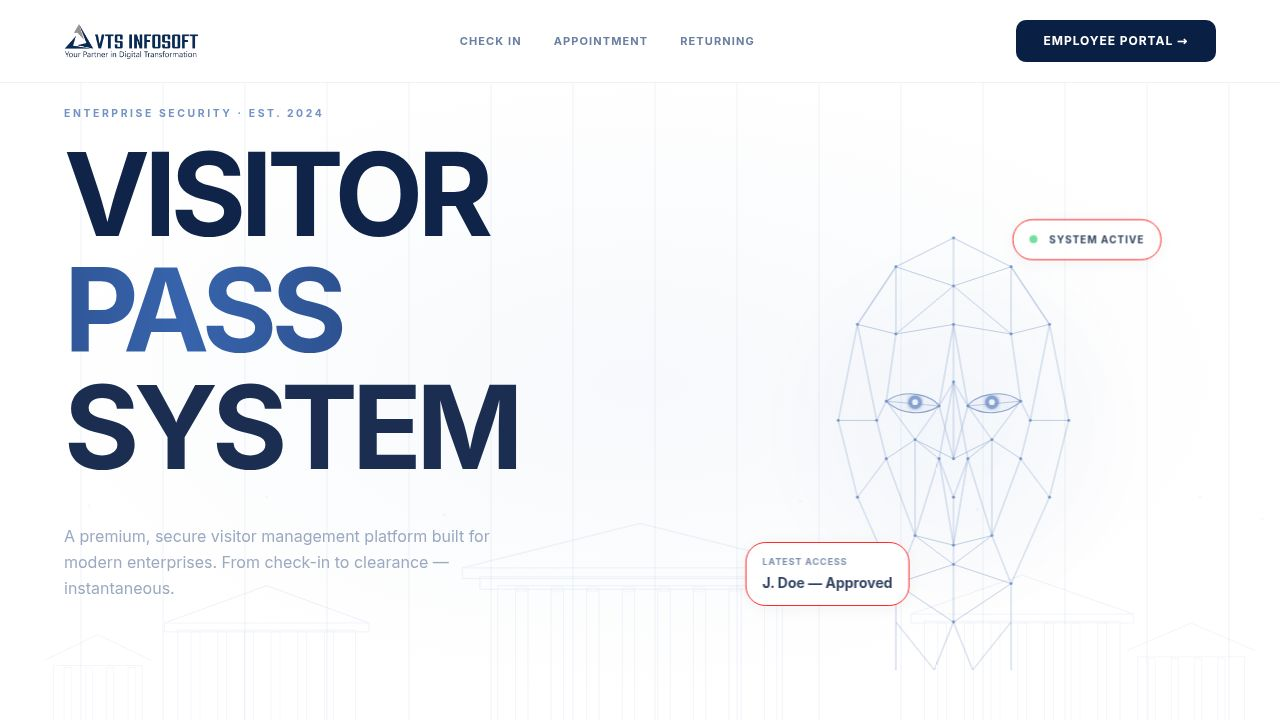
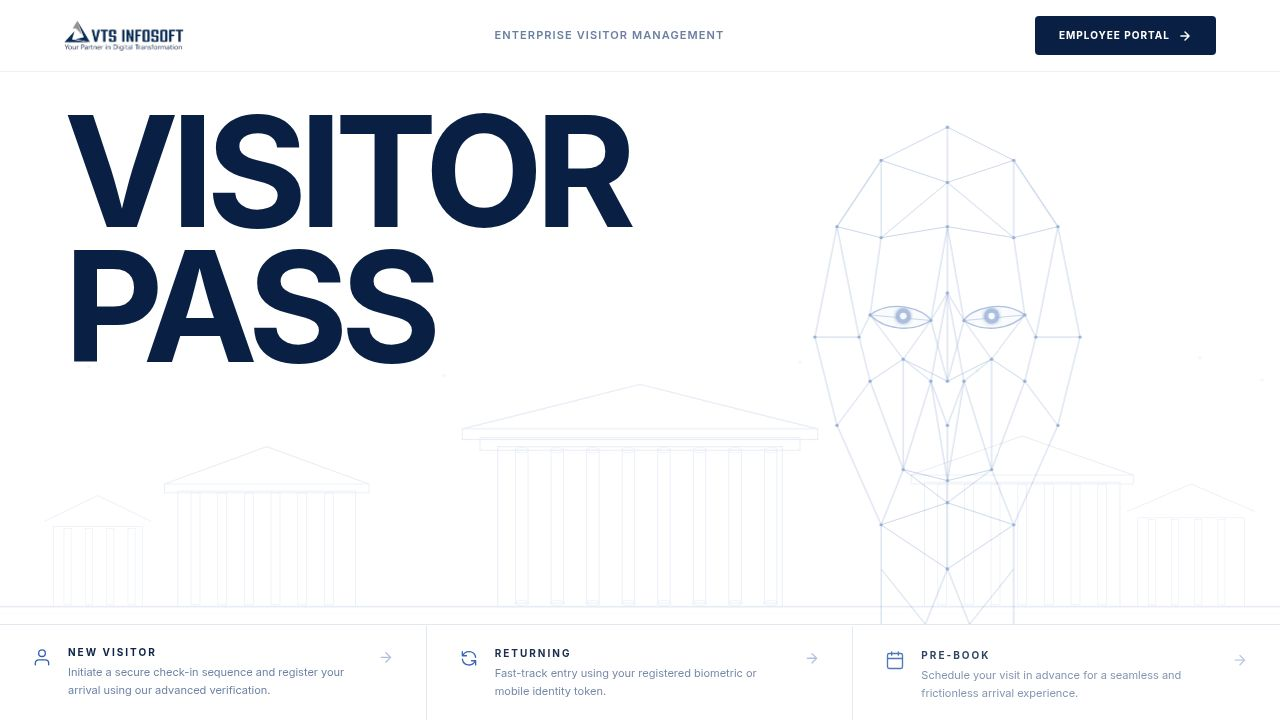
fix: resolve all code review issues from migration
1. Routes (App.tsx): Added singular path aliases matching original Next.js
   routes (/dashboard/department, /designation, /employee, /visitor,
   /pre-visitor, /administrator) alongside plural versions. Also added
   /admin/departments alias.

2. Sidebar (Sidebar.tsx): Restored original singular dashboard paths
   (e.g. /dashboard/department instead of /dashboard/departments) to
   match the source app's URL structure.

3. RBAC (visits.ts):
   - PUT /:id/status: restored authorize('Admin', 'Employee')
   - POST /:id/checkout: restricted back to Admin-only

4. Mobile API (mobile.ts + routes/index.ts): Added missing
   /api/v1/mobile/* routes: scan (GET+POST), checkin, checkout,
   status/:visitId, gate-pass/:visitId, visitor/:phone

5. Auth (auth.ts): Added plaintext password fallback — if stored hash
   doesn't start with '$2' (bcrypt), compare plaintext; on match,
   auto-migrate to bcrypt. Preserves access for original DB users.

6. Model (models.ts): Added CheckedIn to Visit status enum and
   checkinTime field to support mobile check-in flow.

7. JWT_SECRET: Restored as shared env var after accidental removal.

8. Landing page: Fixed bottom cards visibility — outer wrapper now
   uses height:100vh flex column (nav + hero + cards as direct children)
   eliminating nested height conflicts. Reduced GSAP animation delay.

All e2e tests passing: login, 8 sidebar routes (singular paths),
/admin/departments alias, landing page cards visible.

diff --git a/artifacts/api-server/src/vms/mobile.ts b/artifacts/api-server/src/vms/mobile.ts
@@ -1,0 +1,116 @@
+import { Router, Request, Response } from 'express';
+import { Visit, Visitor } from './models.js';
+import { protect, authorize } from './auth.js';
+
+const router = Router();
+
+router.get('/scan/:qrToken', protect, async (req: Request, res: Response) => {
+  try {
+    const visit = await Visit.findOne({ qrToken: req.params.qrToken })
+      .populate('visitor', 'name phone email imageUrl aadhar gender address')
+      .populate('meetWith', 'name email');
+    if (!visit) return res.status(404).json({ message: 'QR code not found or invalid' });
+    res.json(visit);
+  } catch (err: any) {
+    res.status(500).json({ message: 'Server error', error: err.message });
+  }
+});
+
+router.post('/scan', protect, async (req: Request, res: Response) => {
+  const { qrToken } = req.body;
+  try {
+    const visit = await Visit.findOne({ qrToken })
+      .populate('visitor', 'name phone email imageUrl aadhar gender address')
+      .populate('meetWith', 'name email');
+    if (!visit) return res.status(404).json({ message: 'QR code not found or invalid' });
+    res.json(visit);
+  } catch (err: any) {
+    res.status(500).json({ message: 'Server error', error: err.message });
+  }
+});
+
+router.post('/checkin', protect, authorize('Admin', 'Security'), async (req: any, res: Response) => {
+  const { qrToken } = req.body;
+  try {
+    const visit = await Visit.findOne({ qrToken });
+    if (!visit) return res.status(404).json({ message: 'QR code not found or invalid' });
+    if (visit.status !== 'Approved') return res.status(400).json({ message: `Visit is ${visit.status}, cannot check in` });
+    visit.status = 'CheckedIn';
+    visit.checkinTime = new Date();
+    await visit.save();
+    const io = req.app.get('io');
+    if (io) io.emit('visit_updated', { visitId: visit._id, status: 'CheckedIn' });
+    res.json({ message: 'Visitor checked in successfully', visit });
+  } catch (err: any) {
+    res.status(500).json({ message: 'Server error', error: err.message });
+  }
+});
+
+router.post('/checkout', protect, authorize('Admin', 'Security'), async (req: any, res: Response) => {
+  const { qrToken, visitId } = req.body;
+  try {
+    const visit = qrToken
+      ? await Visit.findOne({ qrToken })
+      : await Visit.findById(visitId);
+    if (!visit) return res.status(404).json({ message: 'Visit not found' });
+    visit.status = 'CheckedOut';
+    visit.checkoutTime = new Date();
+    await visit.save();
+    const io = req.app.get('io');
+    if (io) io.emit('visit_updated', { visitId: visit._id, status: 'CheckedOut' });
+    res.json({ message: 'Visitor checked out successfully', visit });
+  } catch (err: any) {
+    res.status(500).json({ message: 'Server error', error: err.message });
+  }
+});
+
+router.get('/status/:visitId', protect, async (req: Request, res: Response) => {
+  try {
+    const visit = await Visit.findById(req.params.visitId)
+      .populate('visitor', 'name phone email imageUrl')
+      .populate('meetWith', 'name email');
+    if (!visit) return res.status(404).json({ message: 'Visit not found' });
+    res.json(visit);
+  } catch (err: any) {
+    res.status(500).json({ message: 'Server error', error: err.message });
+  }
+});
+
+router.get('/gate-pass/:visitId', protect, async (req: Request, res: Response) => {
+  try {
+    const visit = await Visit.findById(req.params.visitId)
+      .populate('visitor', 'name phone email imageUrl aadhar gender address')
+      .populate('meetWith', 'name email');
+    if (!visit) return res.status(404).json({ message: 'Visit not found' });
+    if (visit.status !== 'Approved' && visit.status !== 'CheckedIn') {
+      return res.status(400).json({ message: 'Gate pass only available for approved visits' });
+    }
+    res.json({
+      visitId: visit._id,
+      visitor: visit.visitor,
+      meetWith: visit.meetWith,
+      purpose: visit.purpose,
+      scheduledTime: visit.scheduledTime,
+      qrToken: visit.qrToken,
+      status: visit.status,
+    });
+  } catch (err: any) {
+    res.status(500).json({ message: 'Server error', error: err.message });
+  }
+});
+
+router.get('/visitor/:phone', async (req: Request, res: Response) => {
+  try {
+    const visitor = await Visitor.findOne({ phone: req.params.phone });
+    if (!visitor) return res.status(404).json({ message: 'Visitor not found' });
+    const visits = await Visit.find({ visitor: visitor._id })
+      .populate('meetWith', 'name')
+      .sort({ createdAt: -1 })
+      .limit(5);
+    res.json({ visitor, visits });
+  } catch (err: any) {
+    res.status(500).json({ message: 'Server error', error: err.message });
+  }
+});
+
+export default router;

diff --git a/artifacts/visitor-pass/src/App.tsx b/artifacts/visitor-pass/src/App.tsx
@@ -29,6 +29,16 @@ function ProtectedRoute({ component: Component }: { component: React.ComponentTy
   return <Component />;
 }
 
+function DashboardRoute({ component: Component }: { component: React.ComponentType }) {
+  return (
+    <ProtectedRoute component={() => (
+      <DashboardLayout>
+        <Component />
+      </DashboardLayout>
+    )} />
+  );
+}
+
 function Router() {
   return (
     <Switch>
@@ -39,78 +49,36 @@ function Router() {
       <Route path="/returning" component={ReturningPage} />
       <Route path="/approvals" component={ApprovalsPage} />
 
-      <Route path="/dashboard">
-        {() => (
-          <ProtectedRoute component={() => (
-            <DashboardLayout>
-              <DashboardHome />
-            </DashboardLayout>
-          )} />
-        )}
-      </Route>
-      <Route path="/dashboard/approvals">
-        {() => (
-          <ProtectedRoute component={() => (
-            <DashboardLayout>
-              <DashboardApprovals />
-            </DashboardLayout>
-          )} />
-        )}
-      </Route>
-      <Route path="/dashboard/visitors">
-        {() => (
-          <ProtectedRoute component={() => (
-            <DashboardLayout>
-              <DashboardVisitor />
-            </DashboardLayout>
-          )} />
-        )}
-      </Route>
-      <Route path="/dashboard/departments">
-        {() => (
-          <ProtectedRoute component={() => (
-            <DashboardLayout>
-              <DashboardDepartment />
-            </DashboardLayout>
-          )} />
-        )}
-      </Route>
-      <Route path="/dashboard/employees">
-        {() => (
-          <ProtectedRoute component={() => (
-            <DashboardLayout>
-              <DashboardEmployee />
-            </DashboardLayout>
-          )} />
-        )}
-      </Route>
-      <Route path="/dashboard/designations">
-        {() => (
-          <ProtectedRoute component={() => (
-            <DashboardLayout>
-              <DashboardDesignation />
-            </DashboardLayout>
-          )} />
-        )}
-      </Route>
-      <Route path="/dashboard/administrators">
-        {() => (
-          <ProtectedRoute component={() => (
-            <DashboardLayout>
-              <DashboardAdministrator />
-            </DashboardLayout>
-          )} />
-        )}
-      </Route>
-      <Route path="/dashboard/pre-visitors">
-        {() => (
-          <ProtectedRoute component={() => (
-            <DashboardLayout>
-              <DashboardPreVisitor />
-            </DashboardLayout>
-          )} />
-        )}
-      </Route>
+      {/* Dashboard home */}
+      <Route path="/dashboard">{() => <DashboardRoute component={DashboardHome} />}</Route>
+
+      {/* Approvals */}
+      <Route path="/dashboard/approvals">{() => <DashboardRoute component={DashboardApprovals} />}</Route>
+
+      {/* Visitors — plural and singular */}
+      <Route path="/dashboard/visitors">{() => <DashboardRoute component={DashboardVisitor} />}</Route>
+      <Route path="/dashboard/visitor">{() => <DashboardRoute component={DashboardVisitor} />}</Route>
+
+      {/* Departments — plural, singular, and admin alias */}
+      <Route path="/dashboard/departments">{() => <DashboardRoute component={DashboardDepartment} />}</Route>
+      <Route path="/dashboard/department">{() => <DashboardRoute component={DashboardDepartment} />}</Route>
+      <Route path="/admin/departments">{() => <DashboardRoute component={DashboardDepartment} />}</Route>
+
+      {/* Employees — plural and singular */}
+      <Route path="/dashboard/employees">{() => <DashboardRoute component={DashboardEmployee} />}</Route>
+      <Route path="/dashboard/employee">{() => <DashboardRoute component={DashboardEmployee} />}</Route>
+
+      {/* Designations — plural and singular */}
+      <Route path="/dashboard/designations">{() => <DashboardRoute component={DashboardDesignation} />}</Route>
+      <Route path="/dashboard/designation">{() => <DashboardRoute component={DashboardDesignation} />}</Route>
+
+      {/* Administrators — plural and singular */}
+      <Route path="/dashboard/administrators">{() => <DashboardRoute component={DashboardAdministrator} />}</Route>
+      <Route path="/dashboard/administrator">{() => <DashboardRoute component={DashboardAdministrator} />}</Route>
+
+      {/* Pre-visitors — plural and singular */}
+      <Route path="/dashboard/pre-visitors">{() => <DashboardRoute component={DashboardPreVisitor} />}</Route>
+      <Route path="/dashboard/pre-visitor">{() => <DashboardRoute component={DashboardPreVisitor} />}</Route>
 
       <Route component={NotFound} />
     </Switch>

diff --git a/artifacts/visitor-pass/src/components/Sidebar.tsx b/artifacts/visitor-pass/src/components/Sidebar.tsx
@@ -5,12 +5,12 @@ import { disconnectSocket } from '@/utils/socket';
 const navLinks = [
   { name: 'Dashboard',    path: '/dashboard',               icon: 'M3 12l2-2m0 0l7-7 7 7M5 10v10a1 1 0 001 1h3m10-11l2 2m-2-2v10a1 1 0 01-1 1h-3m-6 0a1 1 0 001-1v-4a1 1 0 011-1h2a1 1 0 011 1v4a1 1 0 001 1m-6 0h6', roles: ['Admin'] },
   { name: 'Approvals',    path: '/dashboard/approvals',     icon: 'M9 12l2 2 4-4m6 2a9 9 0 11-18 0 9 9 0 0118 0z', roles: ['Admin', 'Employee'] },
-  { name: 'Departments',  path: '/dashboard/departments',   icon: 'M19 21V5a2 2 0 00-2-2H7a2 2 0 00-2 2v16m14 0h2m-2 0h-5m-9 0H3m2 0h5M9 7h1m-1 4h1m4-4h1m-1 4h1m-5 10v-5a1 1 0 011-1h2a1 1 0 011 1v5m-4 0h4', roles: ['Admin'] },
-  { name: 'Designations', path: '/dashboard/designations',  icon: 'M21 13.255A23.931 23.931 0 0112 15c-3.183 0-6.22-.62-9-1.745M16 6V4a2 2 0 00-2-2h-4a2 2 0 00-2 2v2m4 6h.01M5 20h14a2 2 0 002-2V8a2 2 0 00-2-2H5a2 2 0 00-2 2v10a2 2 0 002 2z', roles: ['Admin'] },
-  { name: 'Employees',    path: '/dashboard/employees',     icon: 'M12 4.354a4 4 0 110 5.292M15 21H3v-1a6 6 0 0112 0v1zm0 0h6v-1a6 6 0 00-9-5.197M13 7a4 4 0 11-8 0 4 4 0 018 0z', roles: ['Admin'] },
-  { name: 'Visitor Log',  path: '/dashboard/visitors',      icon: 'M17 20h5v-2a3 3 0 00-5.356-1.857M17 20H7m10 0v-2c0-.656-.126-1.283-.356-1.857M7 20H2v-2a3 3 0 015.356-1.857M7 20v-2c0-.656.126-1.283.356-1.857m0 0a5.002 5.002 0 019.288 0M15 7a3 3 0 11-6 0 3 3 0 016 0zm6 3a2 2 0 11-4 0 2 2 0 014 0zM7 10a2 2 0 11-4 0 2 2 0 014 0z', roles: ['Admin'] },
-  { name: 'Appointments', path: '/dashboard/pre-visitors',  icon: 'M8 7V3m8 4V3m-9 8h10M5 21h14a2 2 0 002-2V7a2 2 0 00-2-2H5a2 2 0 00-2 2v12a2 2 0 002 2z', roles: ['Admin'] },
-  { name: 'Admins',       path: '/dashboard/administrators',icon: 'M9 12l2 2 4-4m5.618-4.016A11.955 11.955 0 0112 2.944a11.955 11.955 0 01-8.618 3.04A12.02 12.02 0 003 9c0 5.591 3.824 10.29 9 11.622 5.176-1.332 9-6.03 9-11.622 0-1.042-.133-2.052-.382-3.016z', roles: ['Admin'] }
+  { name: 'Departments',  path: '/dashboard/department',    icon: 'M19 21V5a2 2 0 00-2-2H7a2 2 0 00-2 2v16m14 0h2m-2 0h-5m-9 0H3m2 0h5M9 7h1m-1 4h1m4-4h1m-1 4h1m-5 10v-5a1 1 0 011-1h2a1 1 0 011 1v5m-4 0h4', roles: ['Admin'] },
+  { name: 'Designations', path: '/dashboard/designation',   icon: 'M21 13.255A23.931 23.931 0 0112 15c-3.183 0-6.22-.62-9-1.745M16 6V4a2 2 0 00-2-2h-4a2 2 0 00-2 2v2m4 6h.01M5 20h14a2 2 0 002-2V8a2 2 0 00-2-2H5a2 2 0 00-2 2v10a2 2 0 002 2z', roles: ['Admin'] },
+  { name: 'Employees',    path: '/dashboard/employee',      icon: 'M12 4.354a4 4 0 110 5.292M15 21H3v-1a6 6 0 0112 0v1zm0 0h6v-1a6 6 0 00-9-5.197M13 7a4 4 0 11-8 0 4 4 0 018 0z', roles: ['Admin'] },
+  { name: 'Visitor Log',  path: '/dashboard/visitor',       icon: 'M17 20h5v-2a3 3 0 00-5.356-1.857M17 20H7m10 0v-2c0-.656-.126-1.283-.356-1.857M7 20H2v-2a3 3 0 015.356-1.857M7 20v-2c0-.656.126-1.283.356-1.857m0 0a5.002 5.002 0 019.288 0M15 7a3 3 0 11-6 0 3 3 0 016 0zm6 3a2 2 0 11-4 0 2 2 0 014 0zM7 10a2 2 0 11-4 0 2 2 0 014 0z', roles: ['Admin'] },
+  { name: 'Appointments', path: '/dashboard/pre-visitor',   icon: 'M8 7V3m8 4V3m-9 8h10M5 21h14a2 2 0 002-2V7a2 2 0 00-2-2H5a2 2 0 00-2 2v12a2 2 0 002 2z', roles: ['Admin'] },
+  { name: 'Admins',       path: '/dashboard/administrator', icon: 'M9 12l2 2 4-4m5.618-4.016A11.955 11.955 0 0112 2.944a11.955 11.955 0 01-8.618 3.04A12.02 12.02 0 003 9c0 5.591 3.824 10.29 9 11.622 5.176-1.332 9-6.03 9-11.622 0-1.042-.133-2.052-.382-3.016z', roles: ['Admin'] }
 ];
 
 export default function Sidebar() {

diff --git a/artifacts/api-server/src/vms/auth.ts b/artifacts/api-server/src/vms/auth.ts
@@ -16,11 +16,23 @@ const generateToken = (id: string) => jwt.sign({ id }, getJwtSecret(), { expires
 router.post('/login', async (req: Request, res: Response) => {
   const { email, password } = req.body;
   try {
-    const user = await VmsUser.findOne({ email }).populate('department designation');
+    const user = await VmsUser.findOne({ email }).select('+password').populate('department designation');
     if (!user) return res.status(401).json({ message: 'Invalid email or password' });
-    const valid = await bcrypt.compare(password, user.password);
+
+    let valid = false;
+    if (user.password.startsWith('$2')) {
+      valid = await bcrypt.compare(password, user.password);
+    } else {
+      valid = user.password === password;
+      if (valid) {
+        user.password = await bcrypt.hash(password, 10);
+        await user.save();
+      }
+    }
+
     if (!valid) return res.status(401).json({ message: 'Invalid email or password' });
     if (!user.isActive) return res.status(401).json({ message: 'Account deactivated' });
+
     res.json({
       _id: user._id, name: user.name, email: user.email, role: user.role,
       department: user.department, designation: user.designation,

diff --git a/artifacts/api-server/src/vms/models.ts b/artifacts/api-server/src/vms/models.ts
@@ -16,15 +16,15 @@ export interface IVisit extends Document {
   meetWith: mongoose.Types.ObjectId;
   purpose: string; status: string;
   scheduledTime?: Date; fromTime?: string; toTime?: string;
-  duration?: string; qrToken?: string; checkoutTime?: Date;
+  duration?: string; qrToken?: string; checkinTime?: Date; checkoutTime?: Date;
 }
 const VisitSchema = new Schema<IVisit>({
   visitor: { type: Schema.Types.ObjectId, ref: 'Visitor', required: true },
   meetWith: { type: Schema.Types.ObjectId, ref: 'VmsUser', required: true },
   purpose: { type: String, required: true },
-  status: { type: String, default: 'Pending', enum: ['Pending','Approved','Rejected','CheckedOut'] },
+  status: { type: String, default: 'Pending', enum: ['Pending','Approved','Rejected','CheckedIn','CheckedOut'] },
   scheduledTime: Date, fromTime: String, toTime: String,
-  duration: String, qrToken: String, checkoutTime: Date,
+  duration: String, qrToken: String, checkinTime: Date, checkoutTime: Date,
 }, { timestamps: true });
 export const Visit = mongoose.model<IVisit>('Visit', VisitSchema);
 

diff --git a/artifacts/api-server/src/vms/visits.ts b/artifacts/api-server/src/vms/visits.ts
@@ -104,7 +104,7 @@ router.get('/', protect, authorize('Admin'), async (req: Request, res: Response)
   } catch { res.status(500).json({ message: 'Server error' }); }
 });
 
-router.put('/:id/status', protect, async (req: any, res: Response) => {
+router.put('/:id/status', protect, authorize('Admin', 'Employee'), async (req: any, res: Response) => {
   const { status } = req.body;
   if (!['Approved','Rejected'].includes(status)) return res.status(400).json({ message: 'Invalid status' });
   try {
@@ -126,7 +126,7 @@ router.put('/:id/status', protect, async (req: any, res: Response) => {
   }
 });
 
-router.post('/:id/checkout', protect, authorize('Admin','Employee','Security'), async (req: any, res: Response) => {
+router.post('/:id/checkout', protect, authorize('Admin'), async (req: any, res: Response) => {
   try {
     const visit = await Visit.findById(req.params.id);
     if (!visit) return res.status(404).json({ message: 'Visit not found' });

diff --git a/artifacts/api-server/src/routes/index.ts b/artifacts/api-server/src/routes/index.ts
@@ -5,6 +5,7 @@ import visitsRouter from "../vms/visits.js";
 import usersRouter from "../vms/users.js";
 import departmentsRouter from "../vms/departments.js";
 import designationsRouter from "../vms/designations.js";
+import mobileRouter from "../vms/mobile.js";
 
 const router: IRouter = Router();
 
@@ -15,5 +16,6 @@ router.use("/v1/visits", visitsRouter);
 router.use("/v1/users", usersRouter);
 router.use("/v1/departments", departmentsRouter);
 router.use("/v1/designations", designationsRouter);
+router.use("/v1/mobile", mobileRouter);
 
 export default router;
